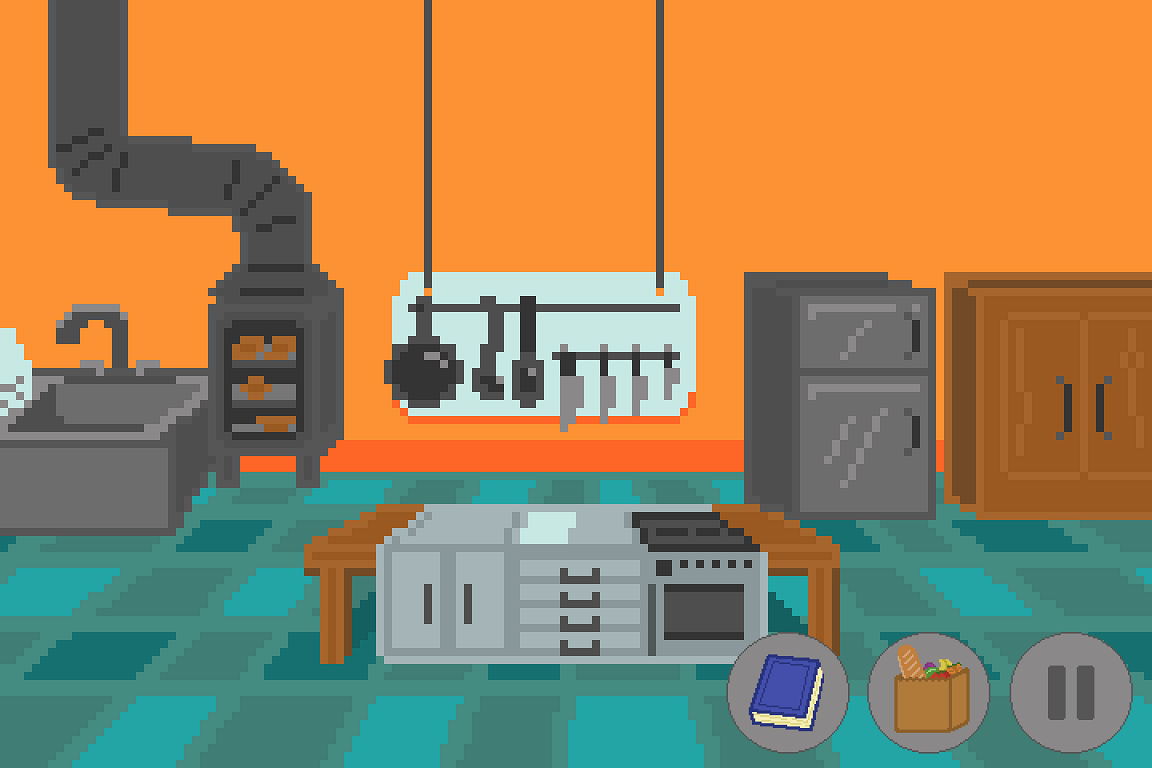
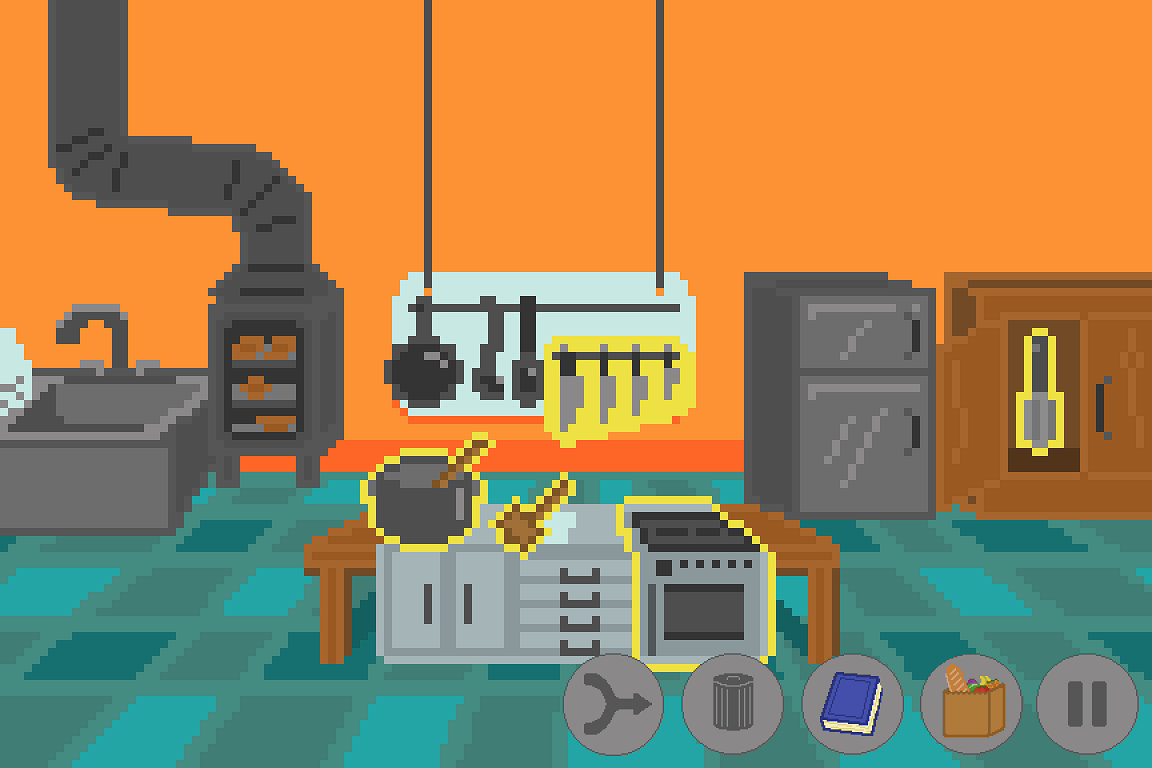
new kitchen graphics

diff --git a/GameContents/Scripts/RecipeBook.js b/GameContents/Scripts/RecipeBook.js
@@ -4,11 +4,12 @@ var mainRecipe;
 var base_recipe_book = {
 	"Basic-Salsa": ["Smashed Tomato", "Chopped Basil"],
 	"Tomato-Sauce": ["Boiled Baisc-Salsa"],
-	"Dough": ["Flour", "Stirred Eggs"],
-	"Noodles": ["Boiled Flattened Dough"],
+	"Dough": ["Flour", "Whisked Eggs"],
+	"Noodles": ["Boiled Smashed Dough", "Salt"],
 	"Tutorial-Tortellini": ["Noodles", "Graded Cheese"]
 }
 
+var createdRecipies = [];
 
 
 function CookFood(ingrs){
@@ -36,6 +37,7 @@ window.CreateNewRecipe = (ele)=>{
 		else{
 			let currentIngr = GetVar("IngrToCombine")
 			base_recipe_book[recipeName] = currentIngr
+			createdRecipies.push(recipeName)
 			window.AddItemToInventory(recipeName)
 			window.SetCurrentRecipe(recipeName)
 		}

diff --git a/GameContents/Scripts/KitchenActions.js b/GameContents/Scripts/KitchenActions.js
@@ -4,7 +4,7 @@ window.ApplyModifier = (mod)=> {
 			inventory[ingr] -= 1;
 			window.AddItemToInventory(`${mod} ${ingr}`);
 		}
-		Engine.play("cooking_table");
+		Engine.play("main_kitchen");
 	}
 	, `What would you like to make ${mod}?`)
 }
@@ -23,7 +23,6 @@ window.TrashStuff = ()=>{
 		},
 		"Select items to trash"	
 	)
-	
 }
 
 window.AddIngredientToCombine = ()=>{
@@ -44,7 +43,7 @@ window.AddIngredientToCombine = ()=>{
 window.CombineIngredients= ()=>{
 	let currentIngr = GetVar("IngrToCombine");
 	if(currentIngr.length <= 1){
-		Engine.play("main_kitchen")
+		Engine.play("not_enough_ingr")
 		return
 	}
 	let cookedItem = CookFood(currentIngr);
